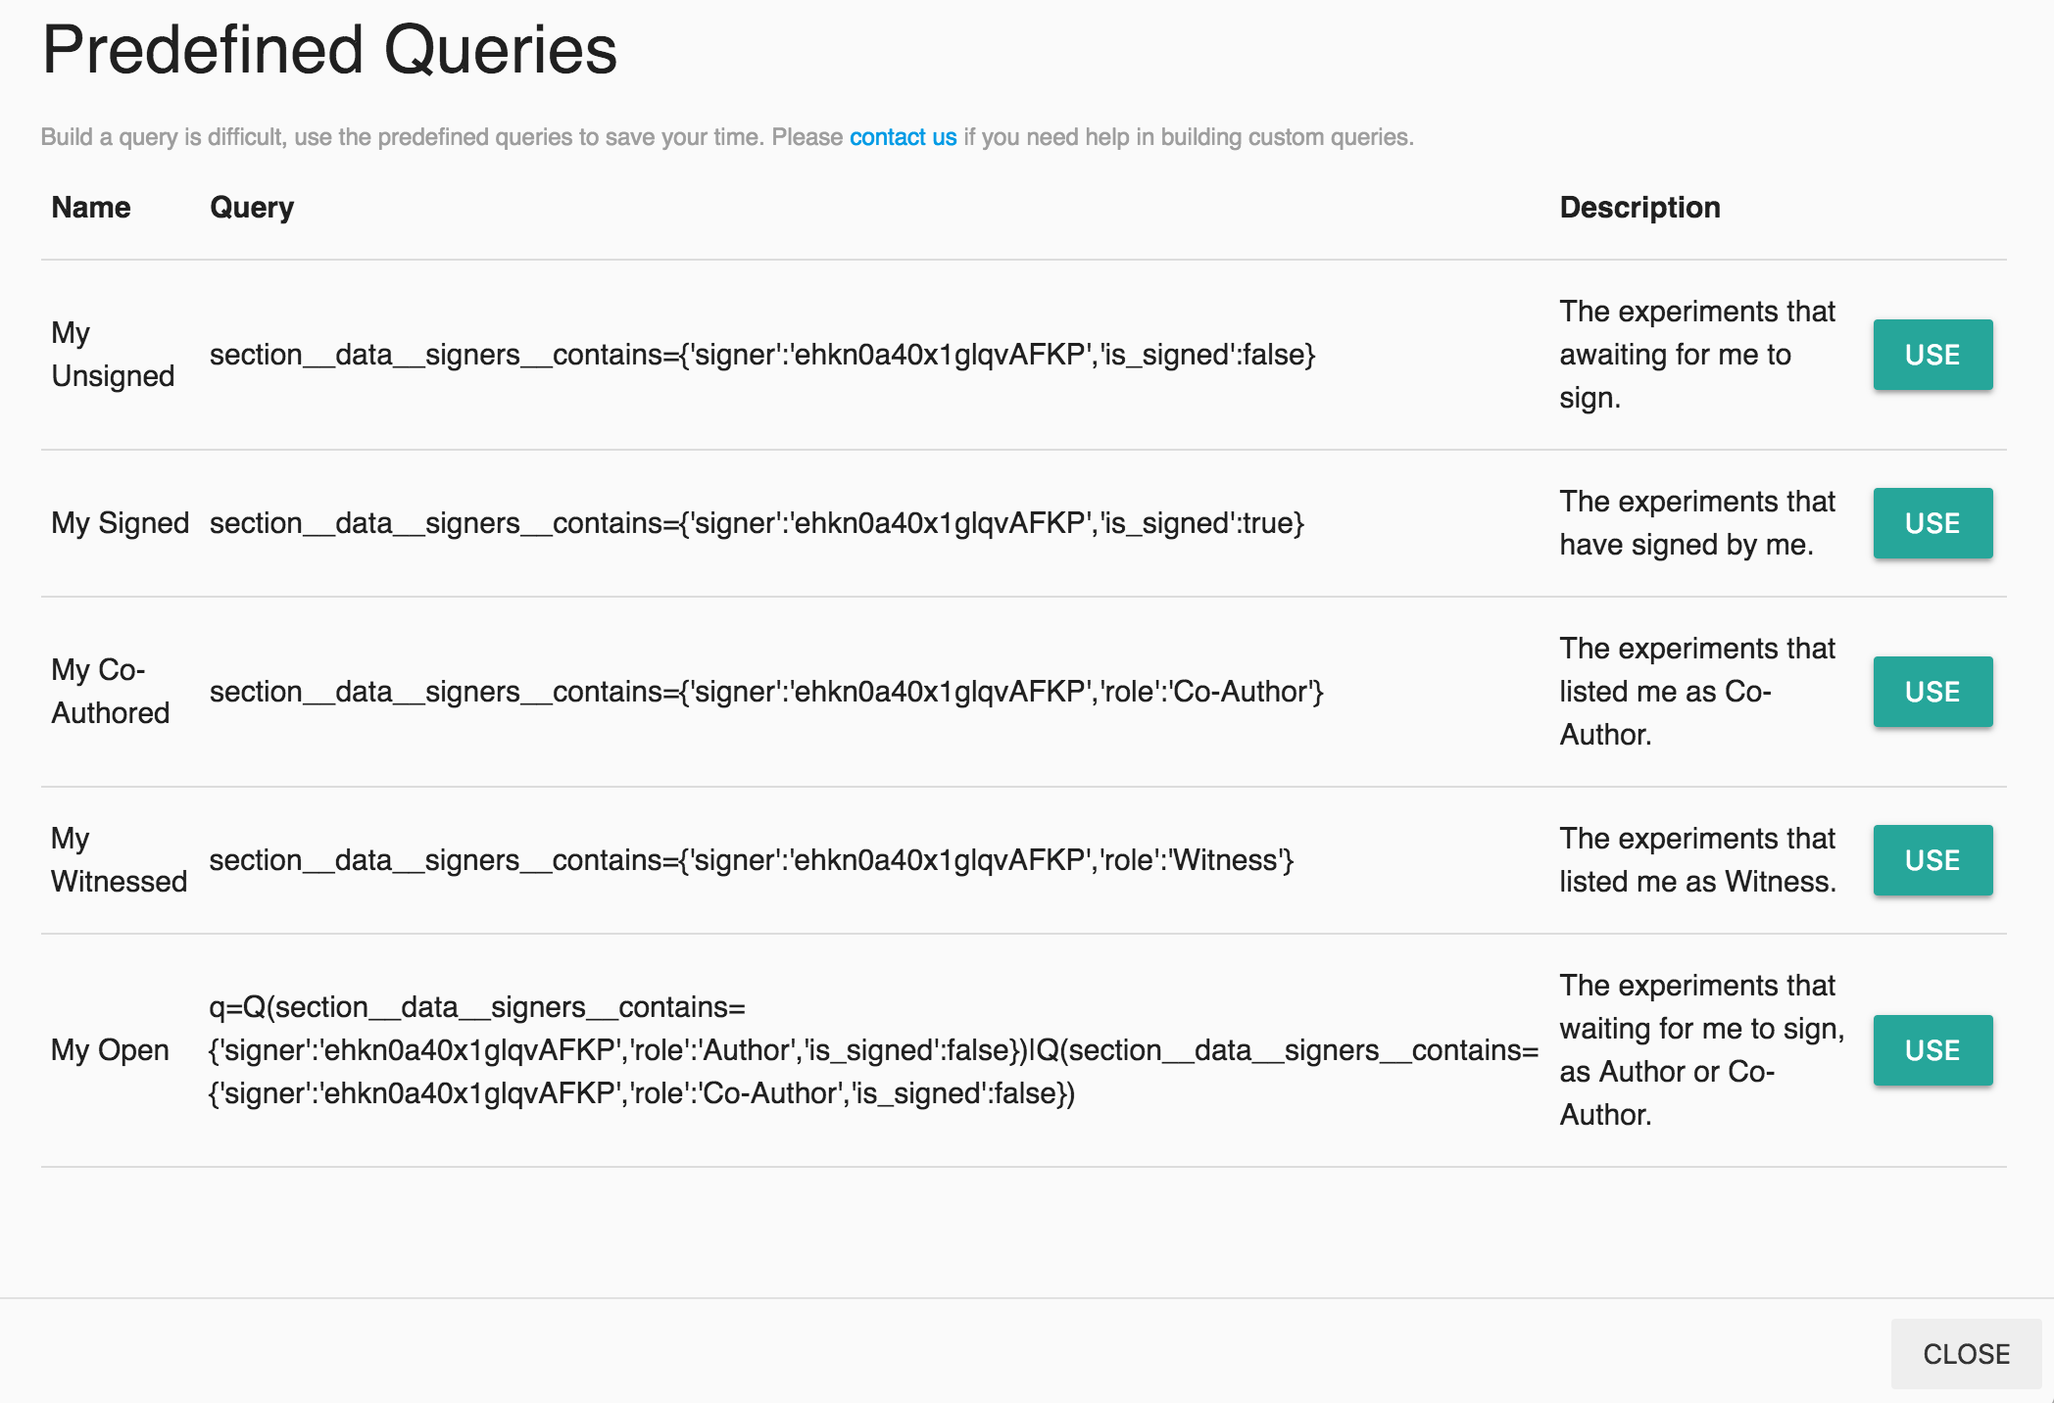
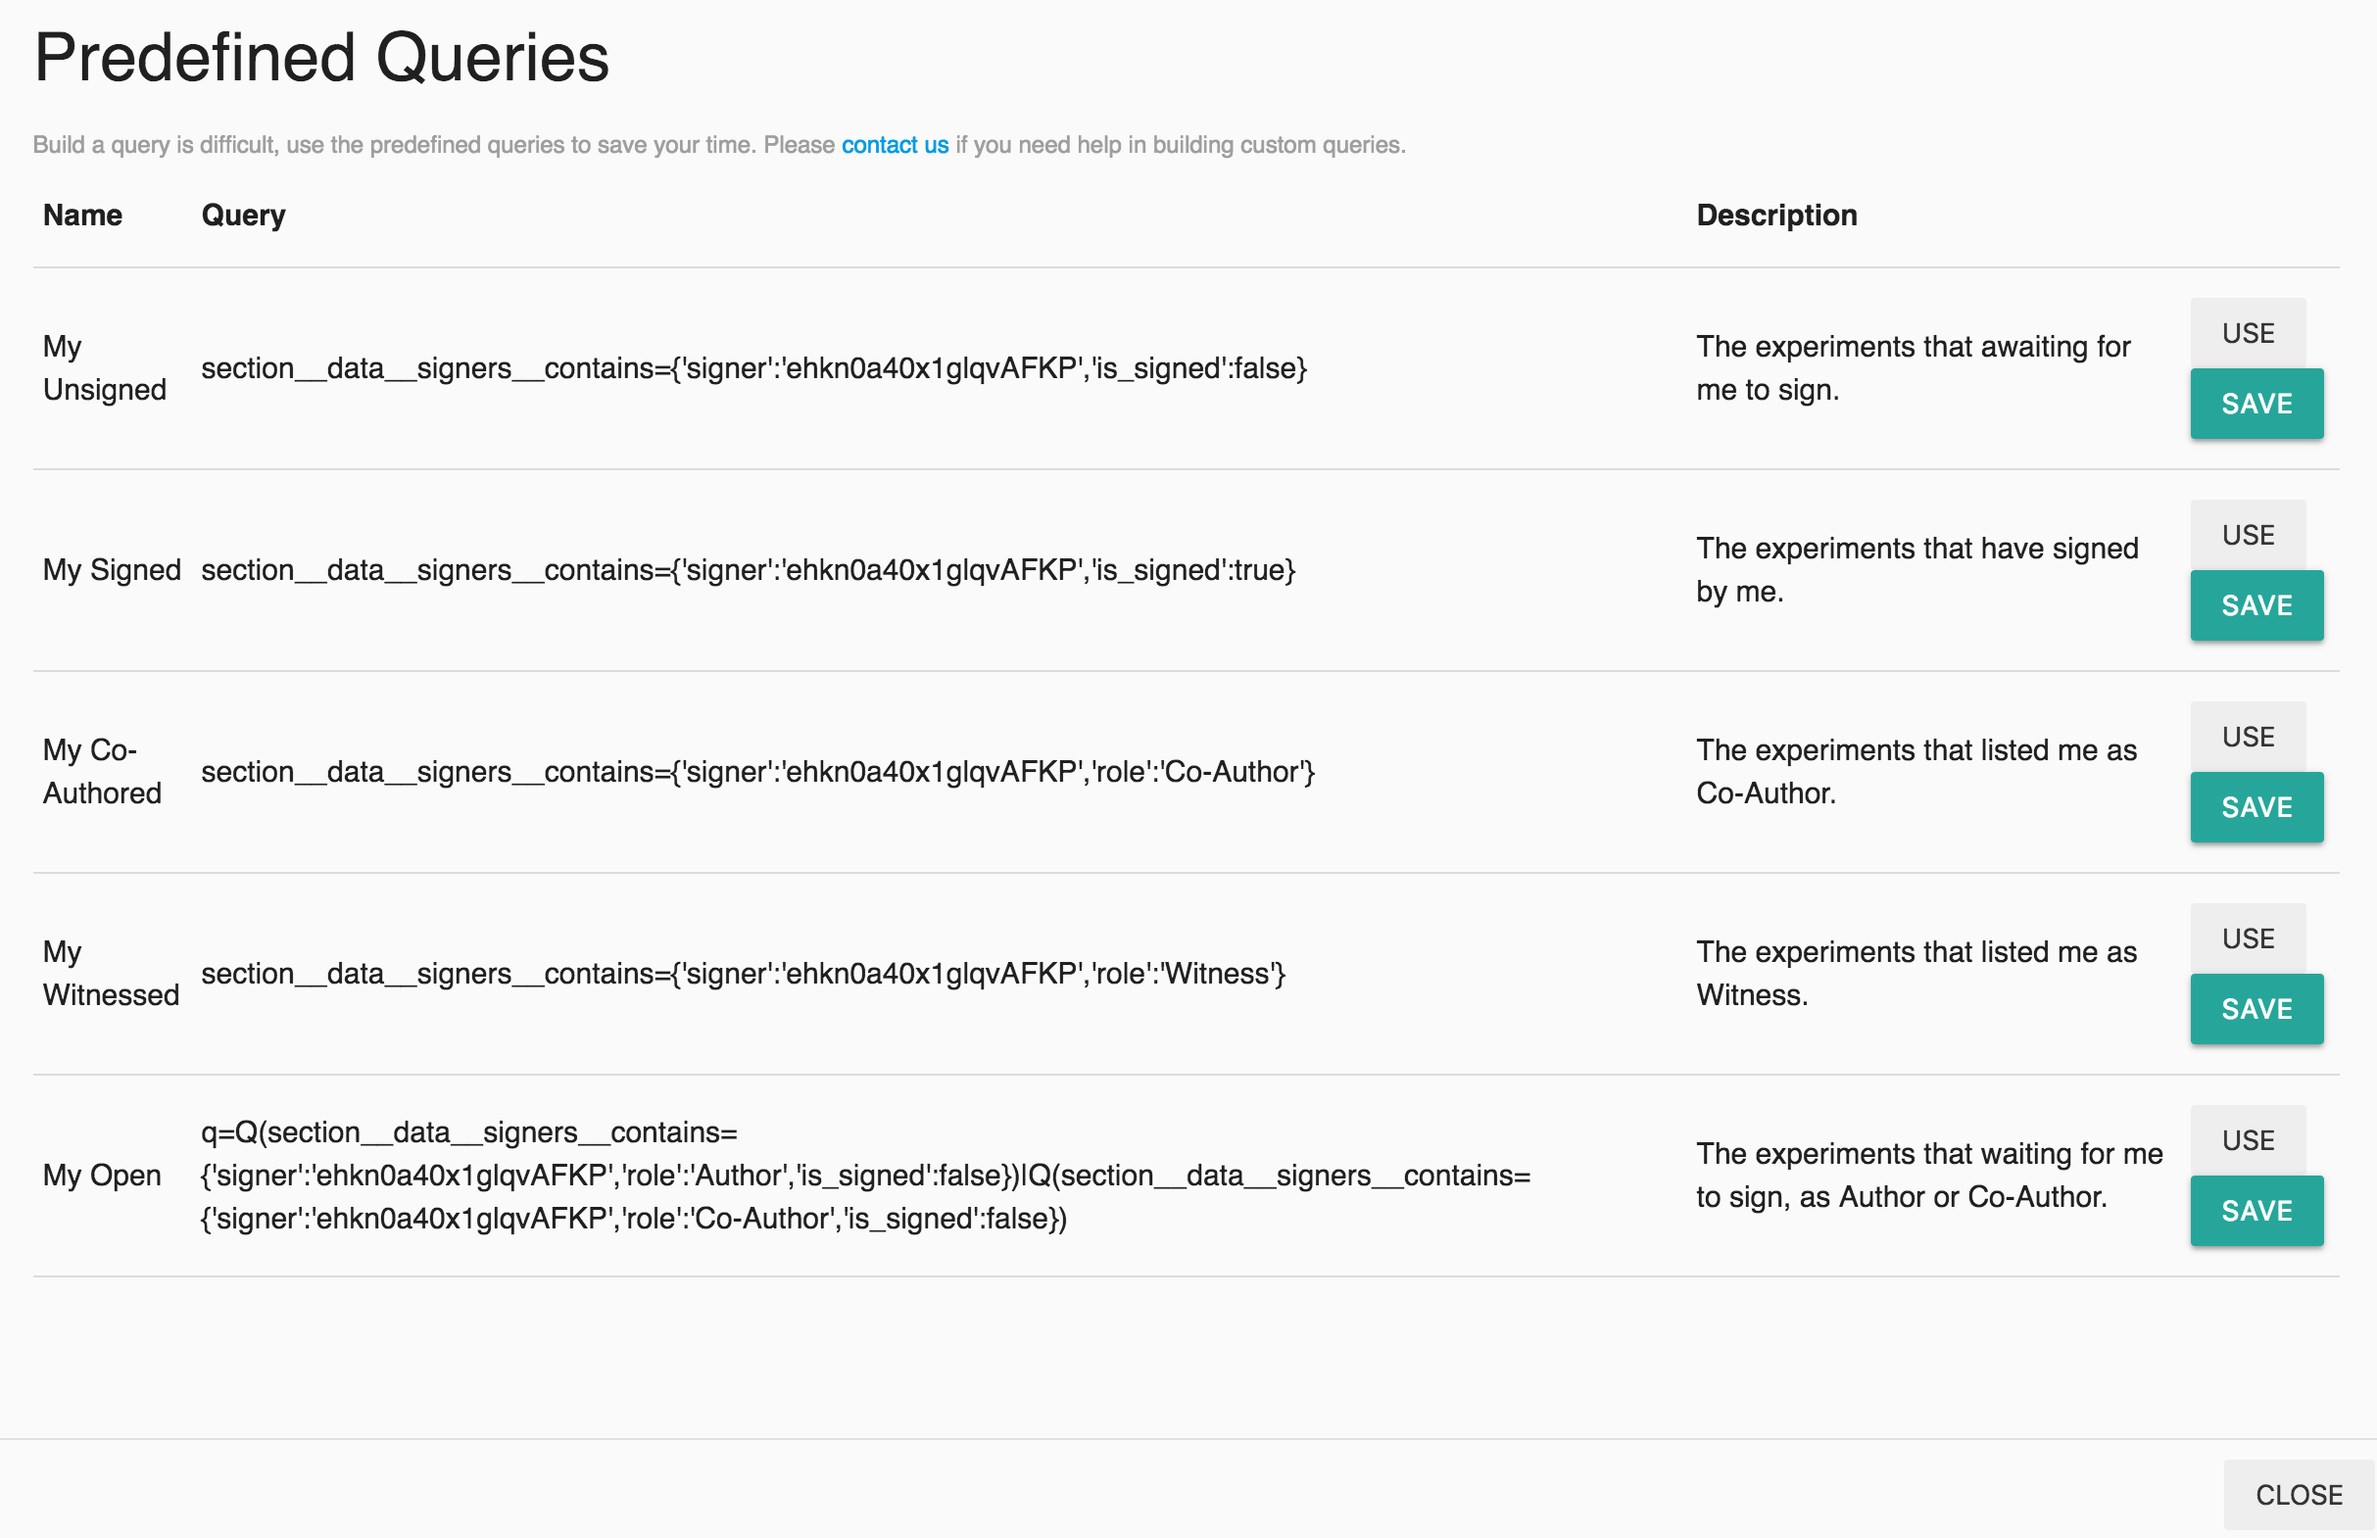
GitBook: [master] one page and 2 assets modified

diff --git a/eln-and-lims/search.md b/eln-and-lims/search.md
@@ -69,9 +69,9 @@ The value to lookup.
 
 Building a query is difficult, Labii provides some predefined filters to save your time. Please [contact us](mailto:help@labii.com) if you need help in building custom queries. 
 
-Click **Predefined Filters** in the dropdown to open list of queries ready to use.
+Click **Predefined Filters** in the dropdown to open list of queries ready to use. Click **Use** to try the Filter; click **Save** to save this filter.
 
-![List of Predefined Queries](../.gitbook/assets/predefined-filters-labii-eln-lims.png)
+![The predefined filters](../.gitbook/assets/predefined-filters-labii-eln-lims.png)
 
 Here is a list of predefined queries available to use:
 
